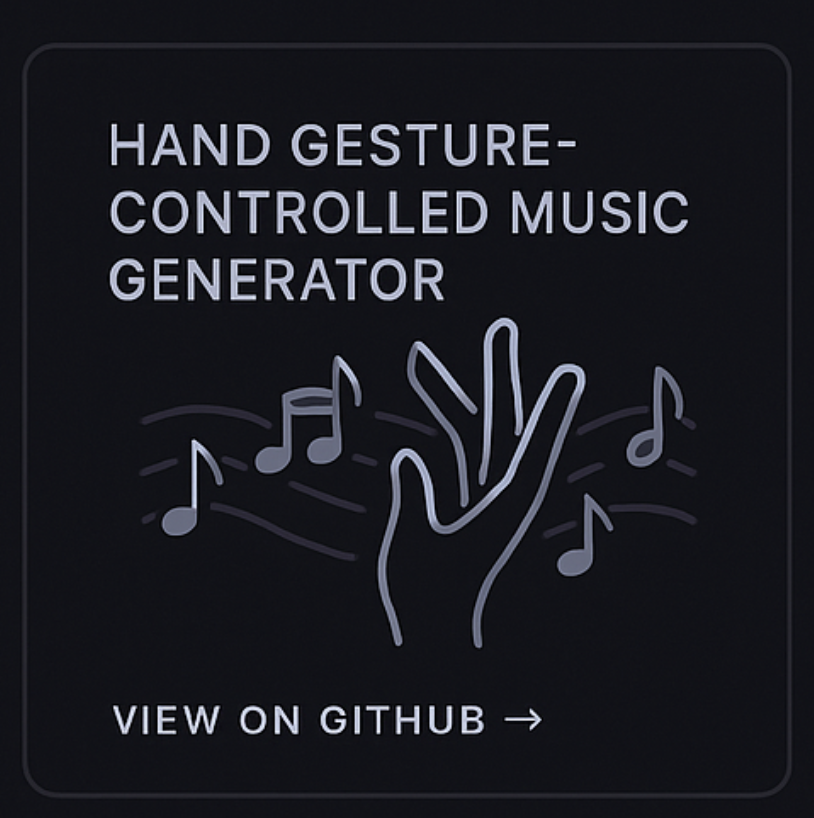
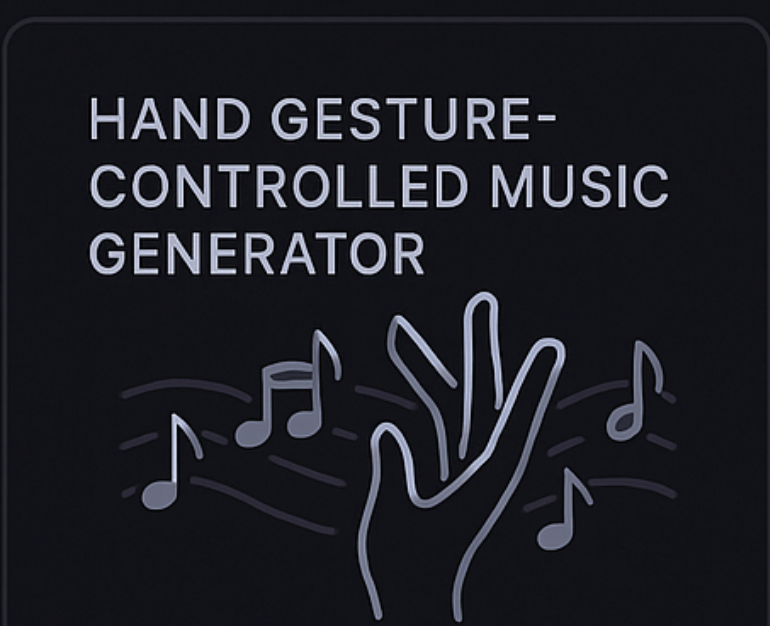
revert the chnaeg of images acepct ratio make it such that i will cover

diff --git a/src/components/projects/project-card.tsx b/src/components/projects/project-card.tsx
@@ -14,12 +14,12 @@ interface ProjectCardProps {
 export default function ProjectCard({ project }: ProjectCardProps) {
   return (
     <Card className="group flex flex-col h-full overflow-hidden bg-card shadow-lg hover:shadow-accent/20 transition-all duration-300 transform hover:scale-[1.01] rounded-lg">
-      <div className="relative w-full h-48 bg-muted/30"> {/* Added a light background for contain */}
+      <div className="relative w-full h-48">
         <Image
           src={project.imageUrl}
           alt={project.name}
           layout="fill"
-          objectFit="contain" // Changed from "cover" to "contain"
+          objectFit="cover" // Changed back from "contain" to "cover"
           className="transition-transform duration-300 group-hover:scale-105"
         />
       </div>
